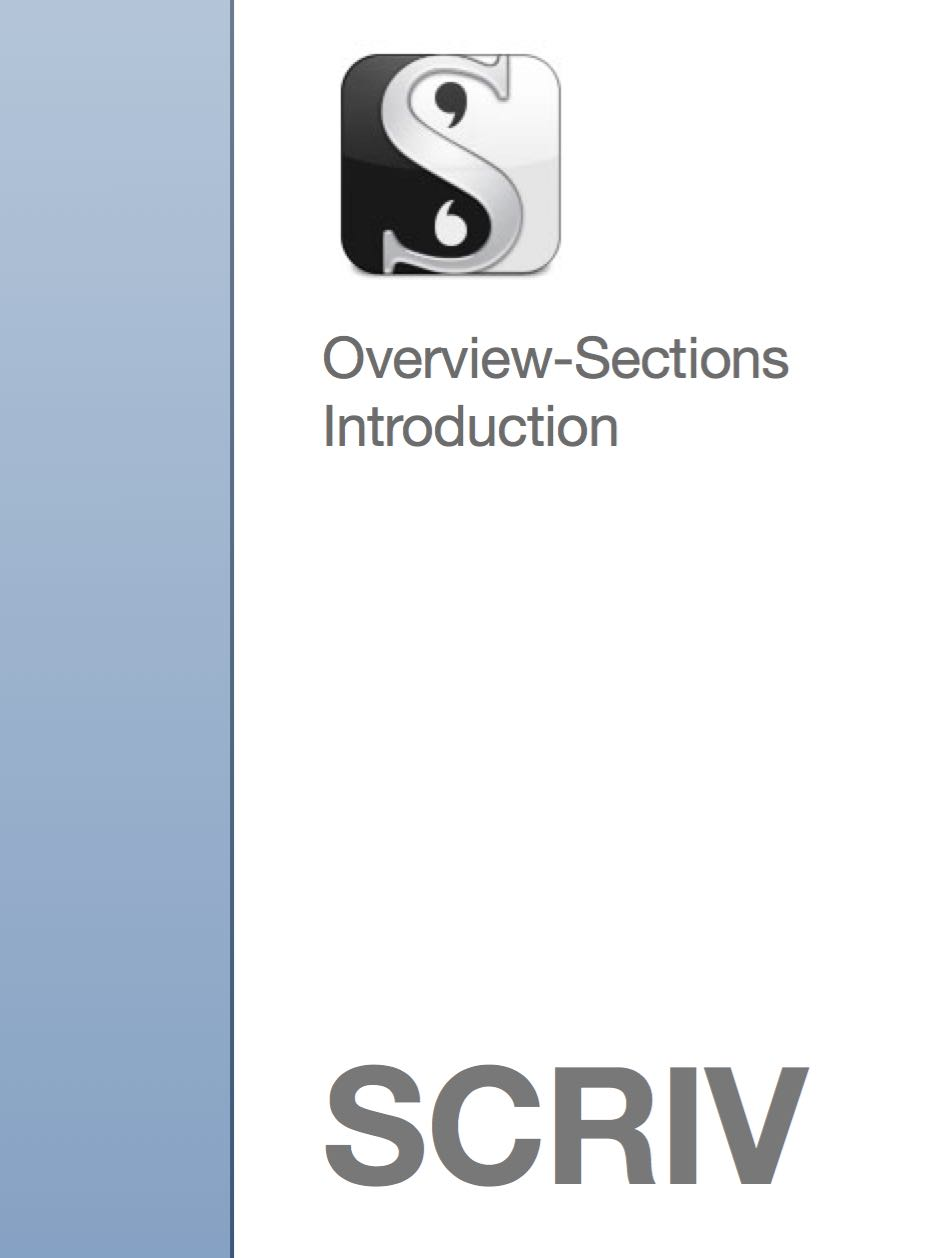
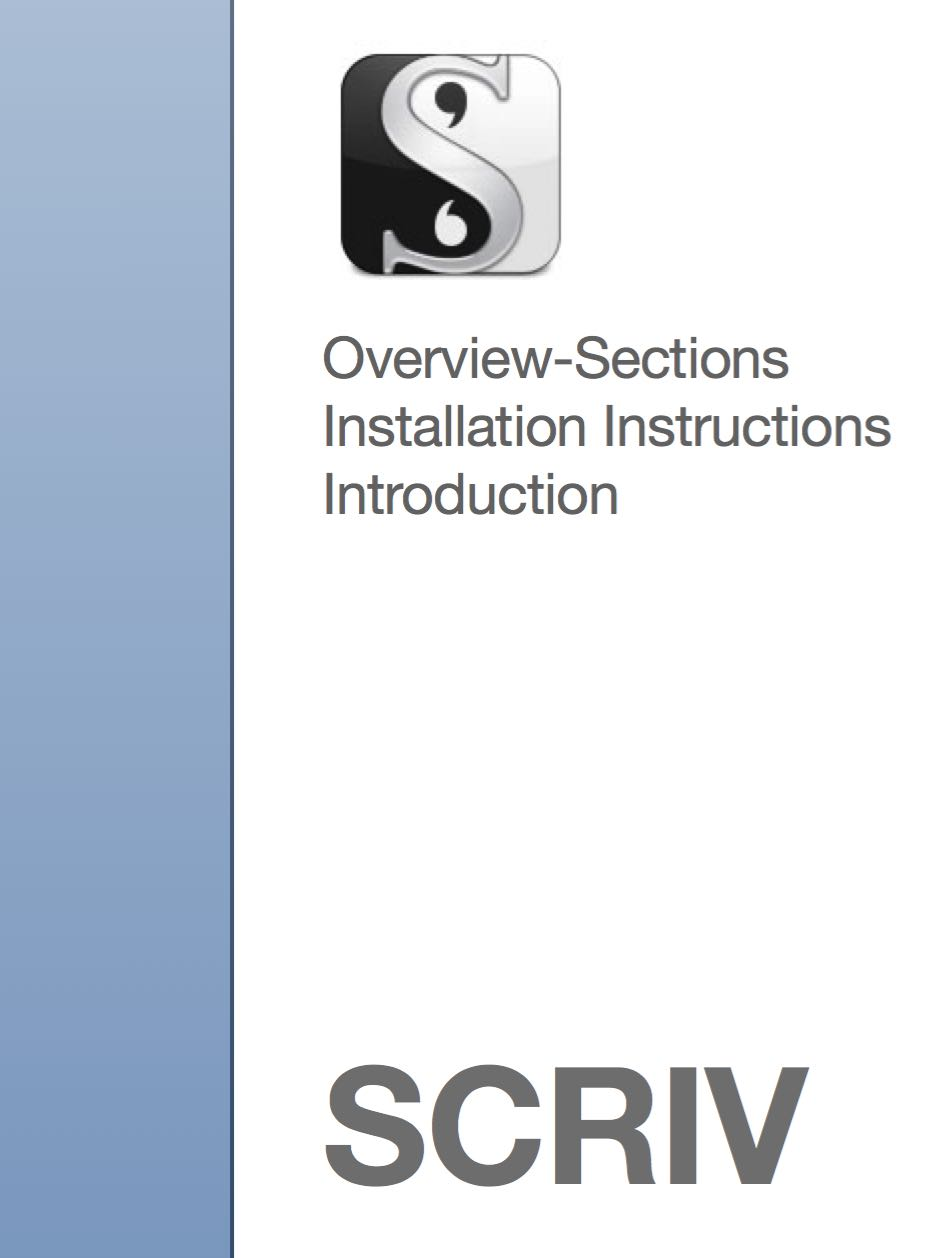
minor fixes to interface and webcontent

Changed region(s): [[0.3379, 0.31, 0.9523, 0.434]]

diff --git a/ConvolutionWebsiteContent/ConvolutionWebsiteContent.scriv/QuickLook/Preview.html b/ConvolutionWebsiteContent/ConvolutionWebsiteContent.scriv/QuickLook/Preview.html
@@ -47,6 +47,12 @@
  6. How to create a new mode of o...</p>
 </li>
 <li>
+<p class="binderItem"><strong>Installation Instructions</strong><br/>#Installation<br/>
+<br/>
+##Installing on Raspberry Pi<br/>
+</p>
+</li>
+<li>
 <p class="binderItem"><strong>Introduction</strong><br/>#Convolution<br/>
 <br/>
 Convolution is an inexpensive, portable, programmable multi-mode synthesizer built using open-source hardware and software.  The goal of this project is to use the synthesizer as a means to introduce middle school and high school kids to interdisciplinary thinking and computer programming with a system that allows for rapid feedback–a requirement for maintaining interest in novice coders.<br/>
